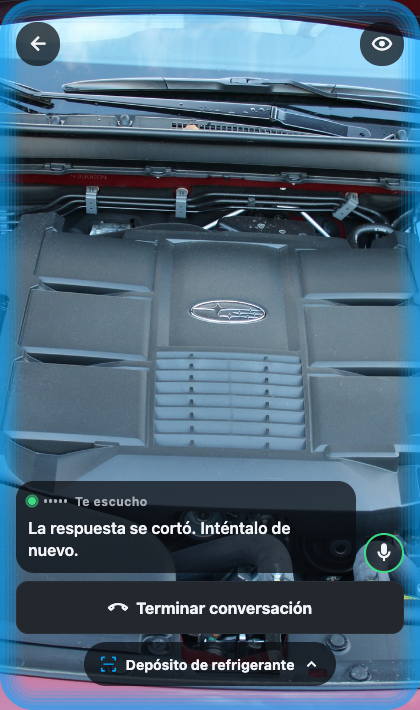
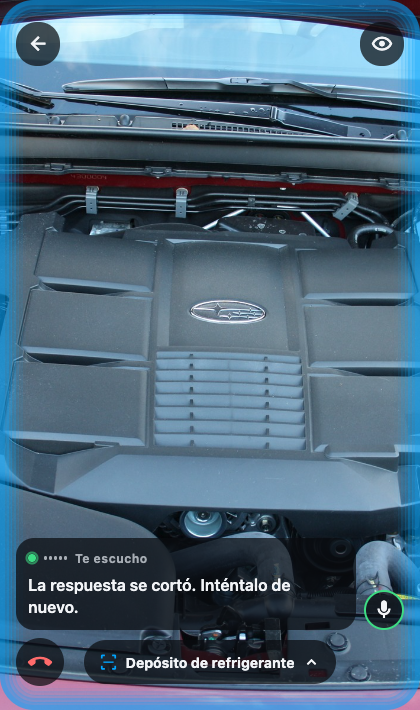
Use a compact hang-up control in the scanner footer

Changed region(s): [[0.031, 0.6507, 0.9595, 0.9915], [0.7738, 0.9296, 0.8048, 0.9606], [0.7429, 0.9606, 0.7738, 0.9915]]

diff --git a/app/src/escaner/comun.tsx b/app/src/escaner/comun.tsx
@@ -116,19 +116,27 @@ export function ScannerControls({ controls, status, children, top, captions, ste
           )}
           {!expanded && captions}
           {!!conversation?.error && <Text accessibilityLiveRegion="polite" style={tipo.nota}>{conversation.error}</Text>}
-          {conversation && (
-            <Boton texto={conversation.enabled ? 'Terminar conversación' : conversation.ended ? 'Empezar nueva conversación' : 'Empezar conversación'}
-              icono={conversation.enabled ? 'phone-hangup-outline' : 'message-processing-outline'}
-              variante={conversation.enabled ? 'secundario' : 'primario'}
+          {conversation && !conversation.enabled && (
+            <Boton texto={conversation.ended ? 'Empezar nueva conversación' : 'Empezar conversación'}
+              icono="message-processing-outline"
               onPress={() => { setMode('compact'); conversation.toggle(); }} />
           )}
-          <Pressable accessibilityRole="button" accessibilityState={{expanded}}
-            accessibilityLabel={expanded ? 'Cerrar detalles' : status + (instruction ? '. Abrir indicación y detalles' : '. Abrir detalles')}
-            onPress={() => setMode(expanded ? 'compact' : 'details')} style={estilos.status}>
-            <Icono nombre={hasError ? 'alert-circle-outline' : instruction ? 'message-text-outline' : 'line-scan'} tam={18} tono={hasError ? color.peligro : color.acento} />
-            <Text style={estilos.statusText} numberOfLines={1}>{expanded ? 'Cerrar detalles' : status}</Text>
-            <Icono nombre={expanded ? 'chevron-down' : 'chevron-up'} tam={18} />
-          </Pressable>
+          <View pointerEvents="box-none" style={conversation?.enabled && estilos.liveFooter}>
+            {conversation?.enabled && (
+              <Pressable accessibilityRole="button" accessibilityLabel="Terminar conversación"
+                onPress={() => { setMode('compact'); conversation.toggle(); }}
+                style={({ pressed }) => [estilos.hangUp, pressed && { opacity: 0.75 }]}>
+                <Icono nombre="phone-hangup" tam={24} tono={color.peligro} />
+              </Pressable>
+            )}
+            <Pressable accessibilityRole="button" accessibilityState={{expanded}}
+              accessibilityLabel={expanded ? 'Cerrar detalles' : status + (instruction ? '. Abrir indicación y detalles' : '. Abrir detalles')}
+              onPress={() => setMode(expanded ? 'compact' : 'details')} style={estilos.status}>
+              <Icono nombre={hasError ? 'alert-circle-outline' : instruction ? 'message-text-outline' : 'line-scan'} tam={18} tono={hasError ? color.peligro : color.acento} />
+              <Text style={estilos.statusText} numberOfLines={1}>{expanded ? 'Cerrar detalles' : status}</Text>
+              <Icono nombre={expanded ? 'chevron-down' : 'chevron-up'} tam={18} />
+            </Pressable>
+          </View>
         </View>
       )}
     </>
@@ -238,6 +246,9 @@ export const estilos = StyleSheet.create({
   chipActivo: { backgroundColor: color.acento, borderColor: color.acento },
   chipTexto: { fontSize: 12, fontWeight: '700', color: color.texto },
   dock: { position: 'absolute', left: espacio.l, right: espacio.l, maxHeight: '55%', gap: espacio.s },
+  liveFooter: { justifyContent: 'center', minHeight: 48, paddingHorizontal: 48 + espacio.s },
+  hangUp: { position: 'absolute', left: 0, top: 0, width: 48, height: 48, borderRadius: 24,
+    alignItems: 'center', justifyContent: 'center', backgroundColor: color.velo },
   status: { alignSelf: 'center', maxWidth: '100%', minHeight: 44, borderRadius: 24, paddingHorizontal: espacio.l,
     flexDirection: 'row', alignItems: 'center', gap: espacio.s, backgroundColor: color.velo },
   statusText: { color: color.texto, fontSize: 14, fontWeight: '700', flexShrink: 1 },
